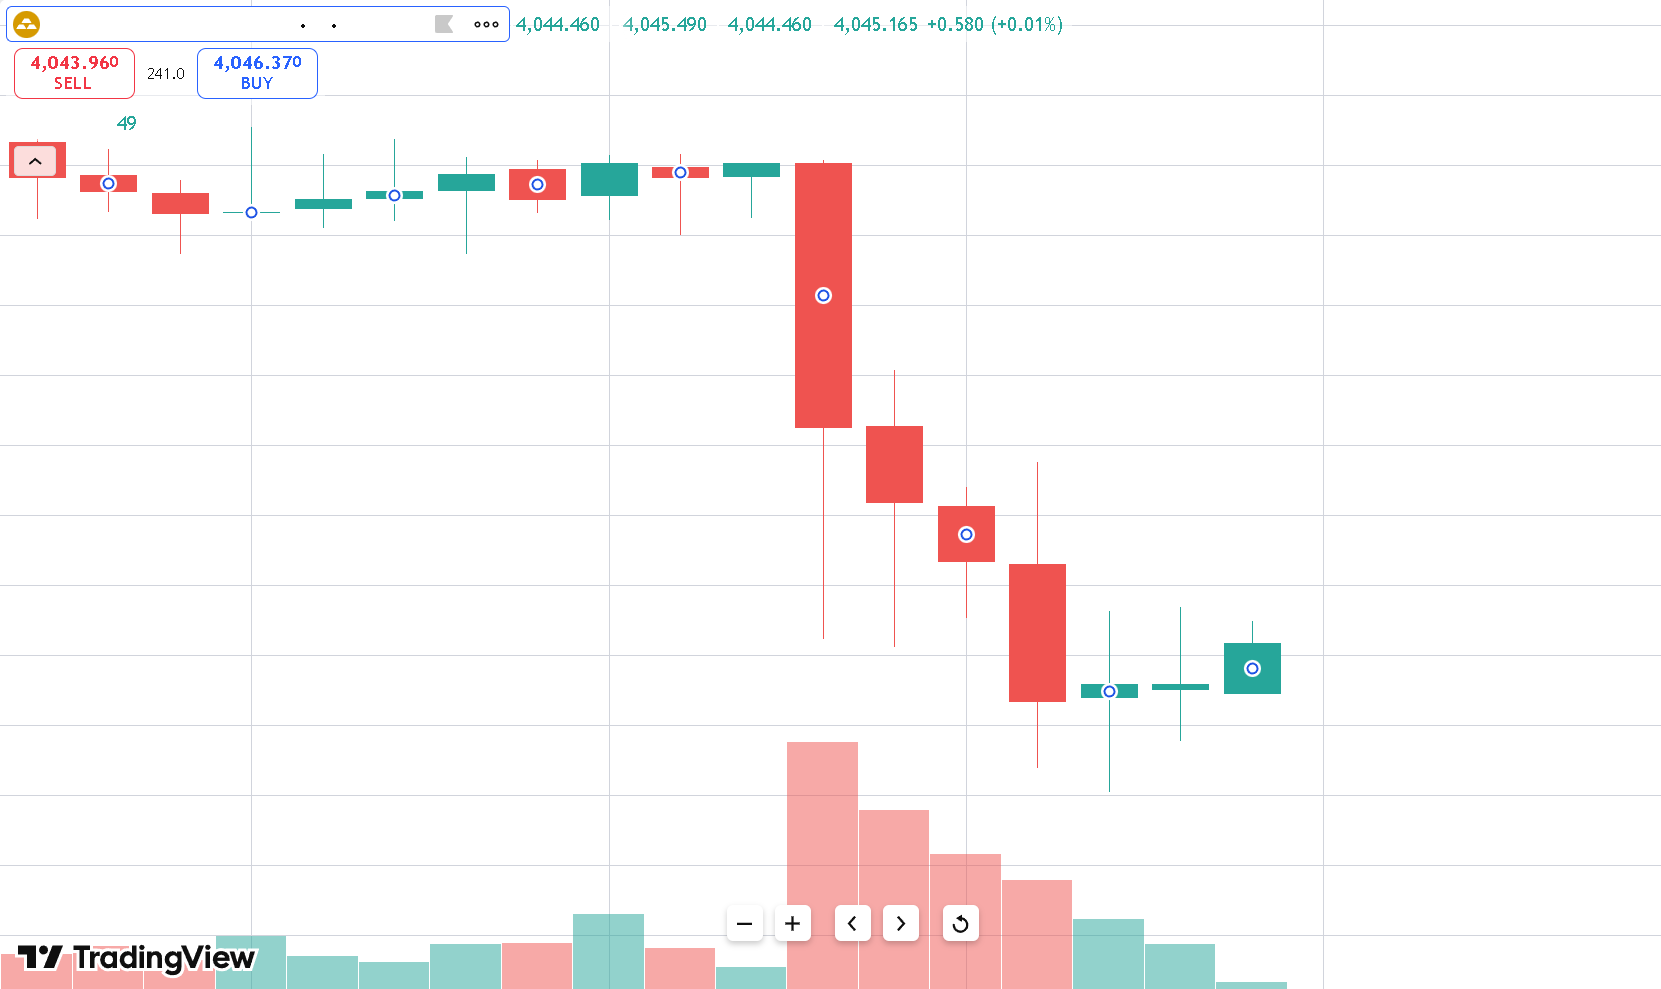
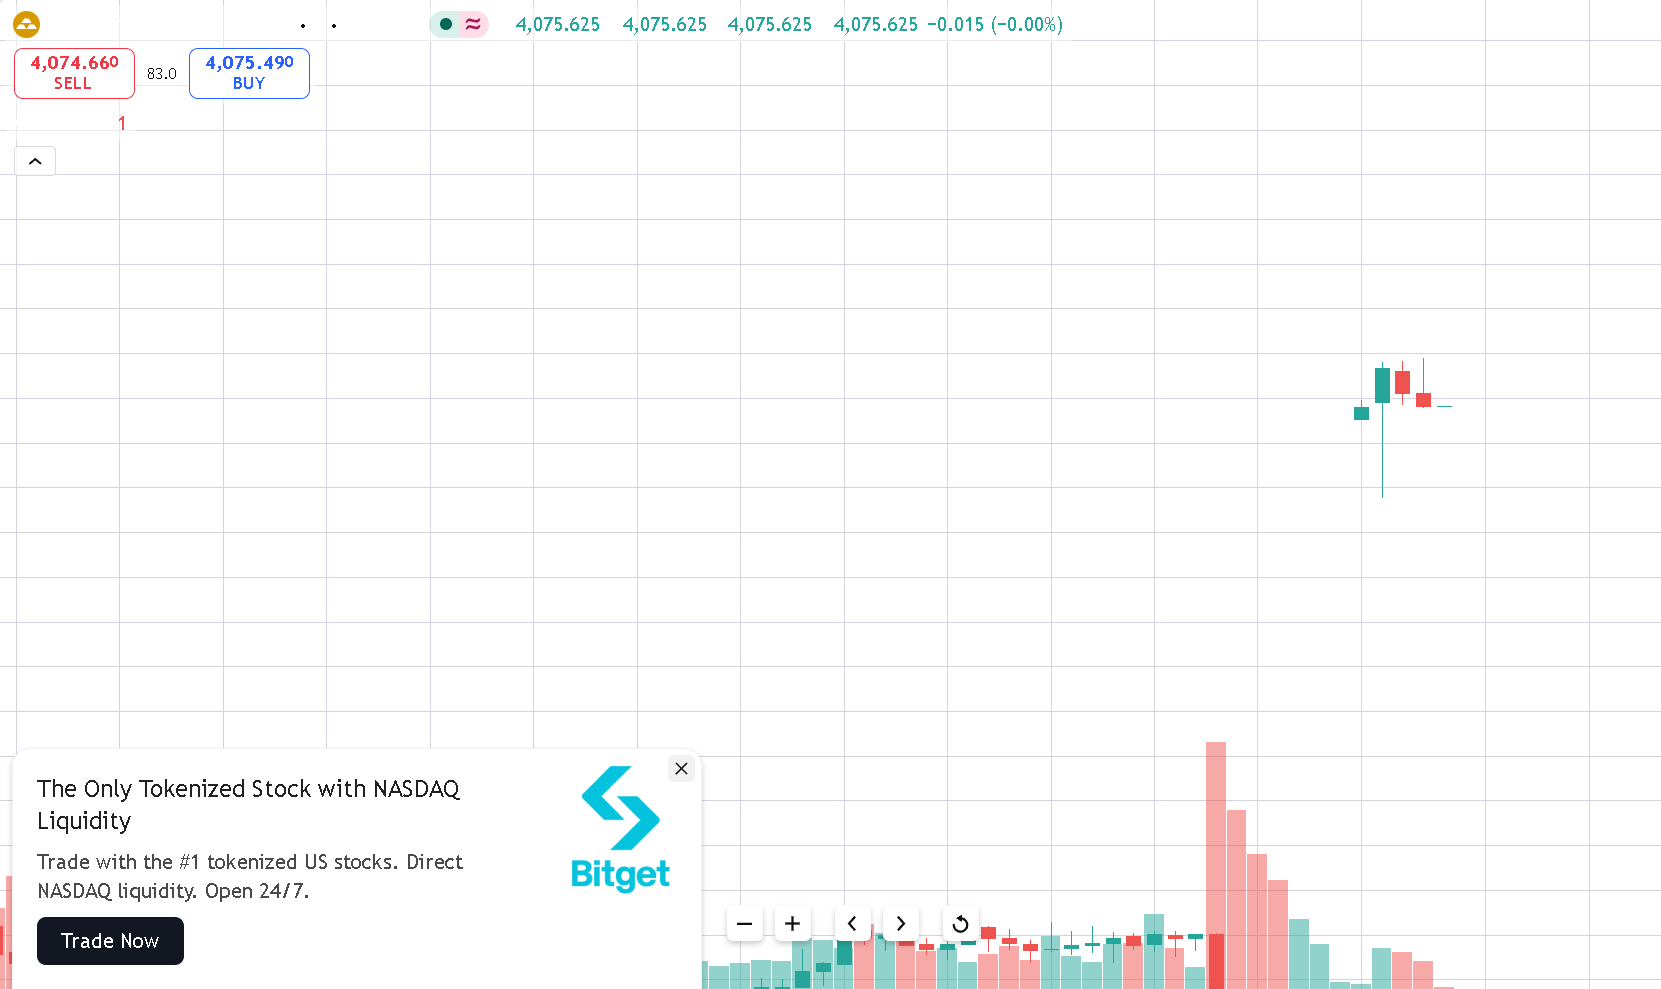
Two real failures caught at the Sunday open
The broker was live - spread 0.25pt, price 31 points above Friday - while our detection feed
still showed Friday's last candle. TradingView's websocket had dropped over the weekend and
the page was serving cached bars. Switching symbols did not fix it; a hard page reload with
cache ignored did, and fresh bars appeared within a minute.

The first scan on that fresh data then produced a "BUY breakout at 4075" which was not a
setup at all: Friday's bars sit directly beside Sunday's first bar thirty points higher, so
the detector read Friday's closing candle as the UHV and the weekend gap as the breakout. A
gap is not momentum - it has no retracement and its volume means nothing.

scan() now refuses to judge until 30 bars exist after any gap longer than 30 minutes, and
says exactly which gap it is waiting past. Both failures are written into the playbook's
failure-mode table.

diff --git a/monitor/claude_judge.py b/monitor/claude_judge.py
@@ -87,6 +87,22 @@ def scan(market="XAU", max_age_min=3):
     stale = (datetime.now(timezone.utc).replace(tzinfo=None) - bars[-1].t).total_seconds() / 60
     if stale > max_age_min:
         return {"error": f"data {stale:.0f} min stale"}
+    # A weekend or holiday leaves a hole in the data: the last Friday bars sit directly
+    # beside the first Sunday bar, tens of points away. The detector reads that gap as a
+    # breakout off a "UHV" that is really just Friday's closing candle. Refuse to judge
+    # until enough genuinely new bars exist to form a shape.
+    gap = None
+    for i in range(len(bars) - 1, max(len(bars) - 60, 0), -1):
+        if (bars[i].t - bars[i - 1].t).total_seconds() > 30 * 60:
+            gap = i
+            break
+    if gap is not None:
+        fresh_bars = len(bars) - gap
+        if fresh_bars < 30:
+            return {"error": f"only {fresh_bars} bars since the session gap "
+                             f"({bars[gap - 1].t:%a %H:%M} -> {bars[gap].t:%a %H:%M} UTC) "
+                             f"- need 30 before any setup here is real"}
+
     # A setup already parked and still inside its judging window is returned UNCHANGED.
     # Replacing it would let a concurrent scan swap the chart out from under a verdict.
     if PENDING.exists():

diff --git a/CLAUDE_REALTIME_EA.md b/CLAUDE_REALTIME_EA.md
@@ -471,6 +471,8 @@ Get-CimInstance Win32_Process -Filter "Name='python.exe'" |
 | EA refuses to initialise | symbol guard: BTC EA attached to a gold chart | attach to the right chart — the guard is working as designed |
 | `[not enough money]` on every order | 0.40 lots on a $309 account (~$162k notional) | size down; check free margin before promising anything |
 | Detector blind to the real UHV | MT5 tick-count volume ≠ OANDA volume | always detect on the exchange feed |
+| Market is live on the broker but the feed is frozen at Friday's close | TradingView's websocket dropped over the weekend and the page served cached bars; a symbol switch does NOT fix it | hard-reload the page with cache ignored (`Page.reload` with `ignoreCache`) — the feed reconnects within a minute |
+| A "breakout" appears in the first minutes of a new session | the weekend gap sits between Friday's last bar and Sunday's first, so the detector reads Friday's closing candle as a UHV and the gap as a breakout | `scan()` refuses to judge until 30 bars exist after any gap over 30 minutes |
 | Data symbol suddenly wrong | someone switched the TradingView chart | `.symbol` marker + guard → the loop **holds** instead of trading nonsense |
 | Cloudflare **1033** while local is fine | tunnel process alive but its edge connection is dead | guard re-checks the public URL every ~60 s and restarts cloudflared |
 | `.hcc` history file unreadable | MT5 locks it while the terminal runs | use `ExportRecentBars` EA, or the bridge |
